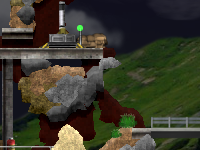
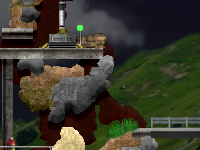
+ Neuer Hintergrund². + Paralax-Standards der Hintergründe angepasst. * Titelbilder aktualisiert.

diff --git a/ModernCombatFINALTRY.c4f/Backgrounds.c4d/Mountain.c4d/Script.c b/ModernCombatFINALTRY.c4f/Backgrounds.c4d/Mountain.c4d/Script.c
@@ -1,4 +1,4 @@
-/*-- Schneeberg --*/
+/*-- Berg --*/
 
 #strict 2
 
@@ -8,5 +8,5 @@
 public func Initialize()
 {
   SetCategory(GetCategory() | C4D_Parallax | C4D_Background | C4D_MouseIgnore);
-  Local()=30; Local(1)=100;
+  Local()=40; Local(1)=100;
 }

diff --git a/ModernCombatFINALTRY.c4f/Backgrounds.c4d/Canyon.c4d/Script.c b/ModernCombatFINALTRY.c4f/Backgrounds.c4d/Canyon.c4d/Script.c
@@ -8,5 +8,5 @@
 public func Initialize()
 {
   SetCategory(GetCategory() | C4D_Parallax | C4D_Background | C4D_MouseIgnore);
-  Local()=40; Local(1)=60;
+  Local()=40; Local(1)=100;
 }

diff --git a/ModernCombatFINALTRY.c4f/Backgrounds.c4d/Docks.c4d/Script.c b/ModernCombatFINALTRY.c4f/Backgrounds.c4d/Docks.c4d/Script.c
@@ -8,5 +8,5 @@
 public func Initialize()
 {
   SetCategory(GetCategory() | C4D_Parallax | C4D_Background | C4D_MouseIgnore);
-  Local()=40; Local(1)=60;
+  Local()=40; Local(1)=100;
 }

diff --git a/ModernCombatFINALTRY.c4f/Backgrounds.c4d/GrassHills.c4d/Script.c b/ModernCombatFINALTRY.c4f/Backgrounds.c4d/GrassHills.c4d/Script.c
@@ -8,5 +8,5 @@
 public func Initialize()
 {
   SetCategory(GetCategory() | C4D_Parallax | C4D_Background | C4D_MouseIgnore);
-  Local()=40; Local(1)=30;
+  Local()=40; Local(1)=100;
 }

diff --git a/ModernCombatFINALTRY.c4f/Backgrounds.c4d/GrassHills2.c4d/Script.c b/ModernCombatFINALTRY.c4f/Backgrounds.c4d/GrassHills2.c4d/Script.c
@@ -8,5 +8,5 @@
 public func Initialize()
 {
   SetCategory(GetCategory() | C4D_Parallax | C4D_Background | C4D_MouseIgnore);
-  Local()=40; Local(1)=30;
+  Local()=40; Local(1)=100;
 }

diff --git a/ModernCombatFINALTRY.c4f/Backgrounds.c4d/SnowMountain2.c4d/Script.c b/ModernCombatFINALTRY.c4f/Backgrounds.c4d/SnowMountain2.c4d/Script.c
@@ -8,5 +8,5 @@
 public func Initialize()
 {
   SetCategory(GetCategory() | C4D_Parallax | C4D_Background | C4D_MouseIgnore);
-  Local()=40; Local(1)=30;
+  Local()=40; Local(1)=100;
 }
